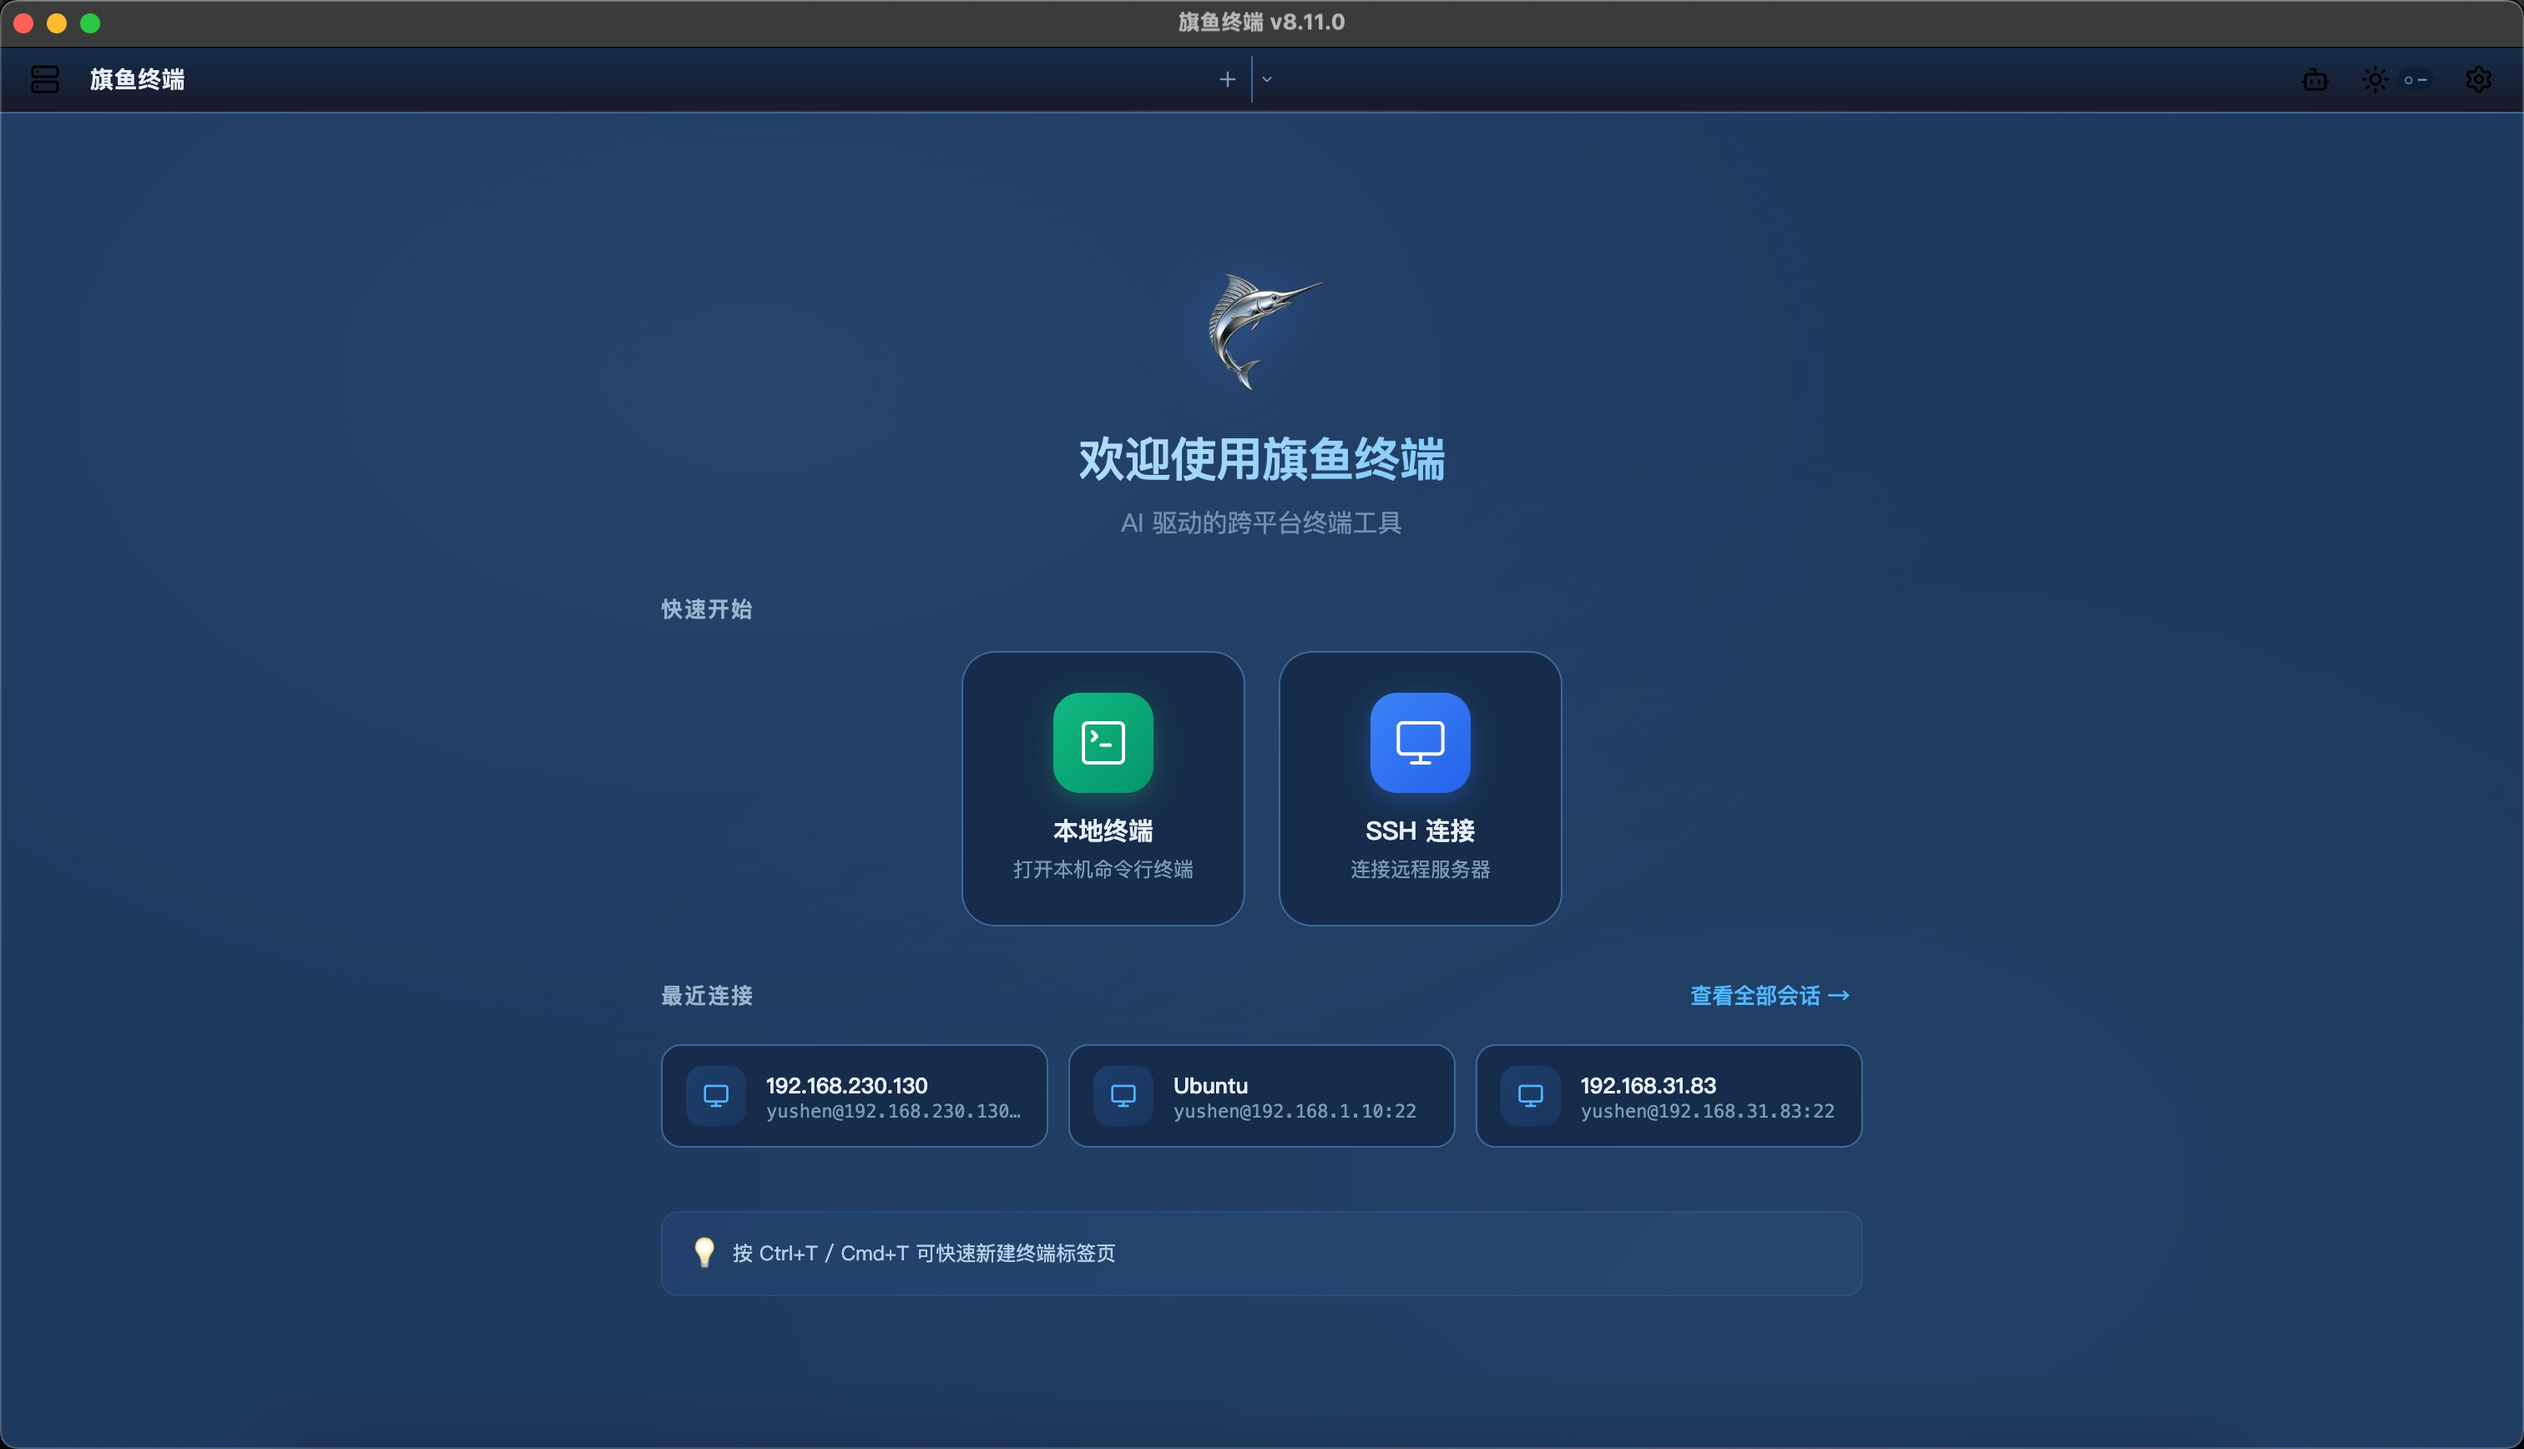
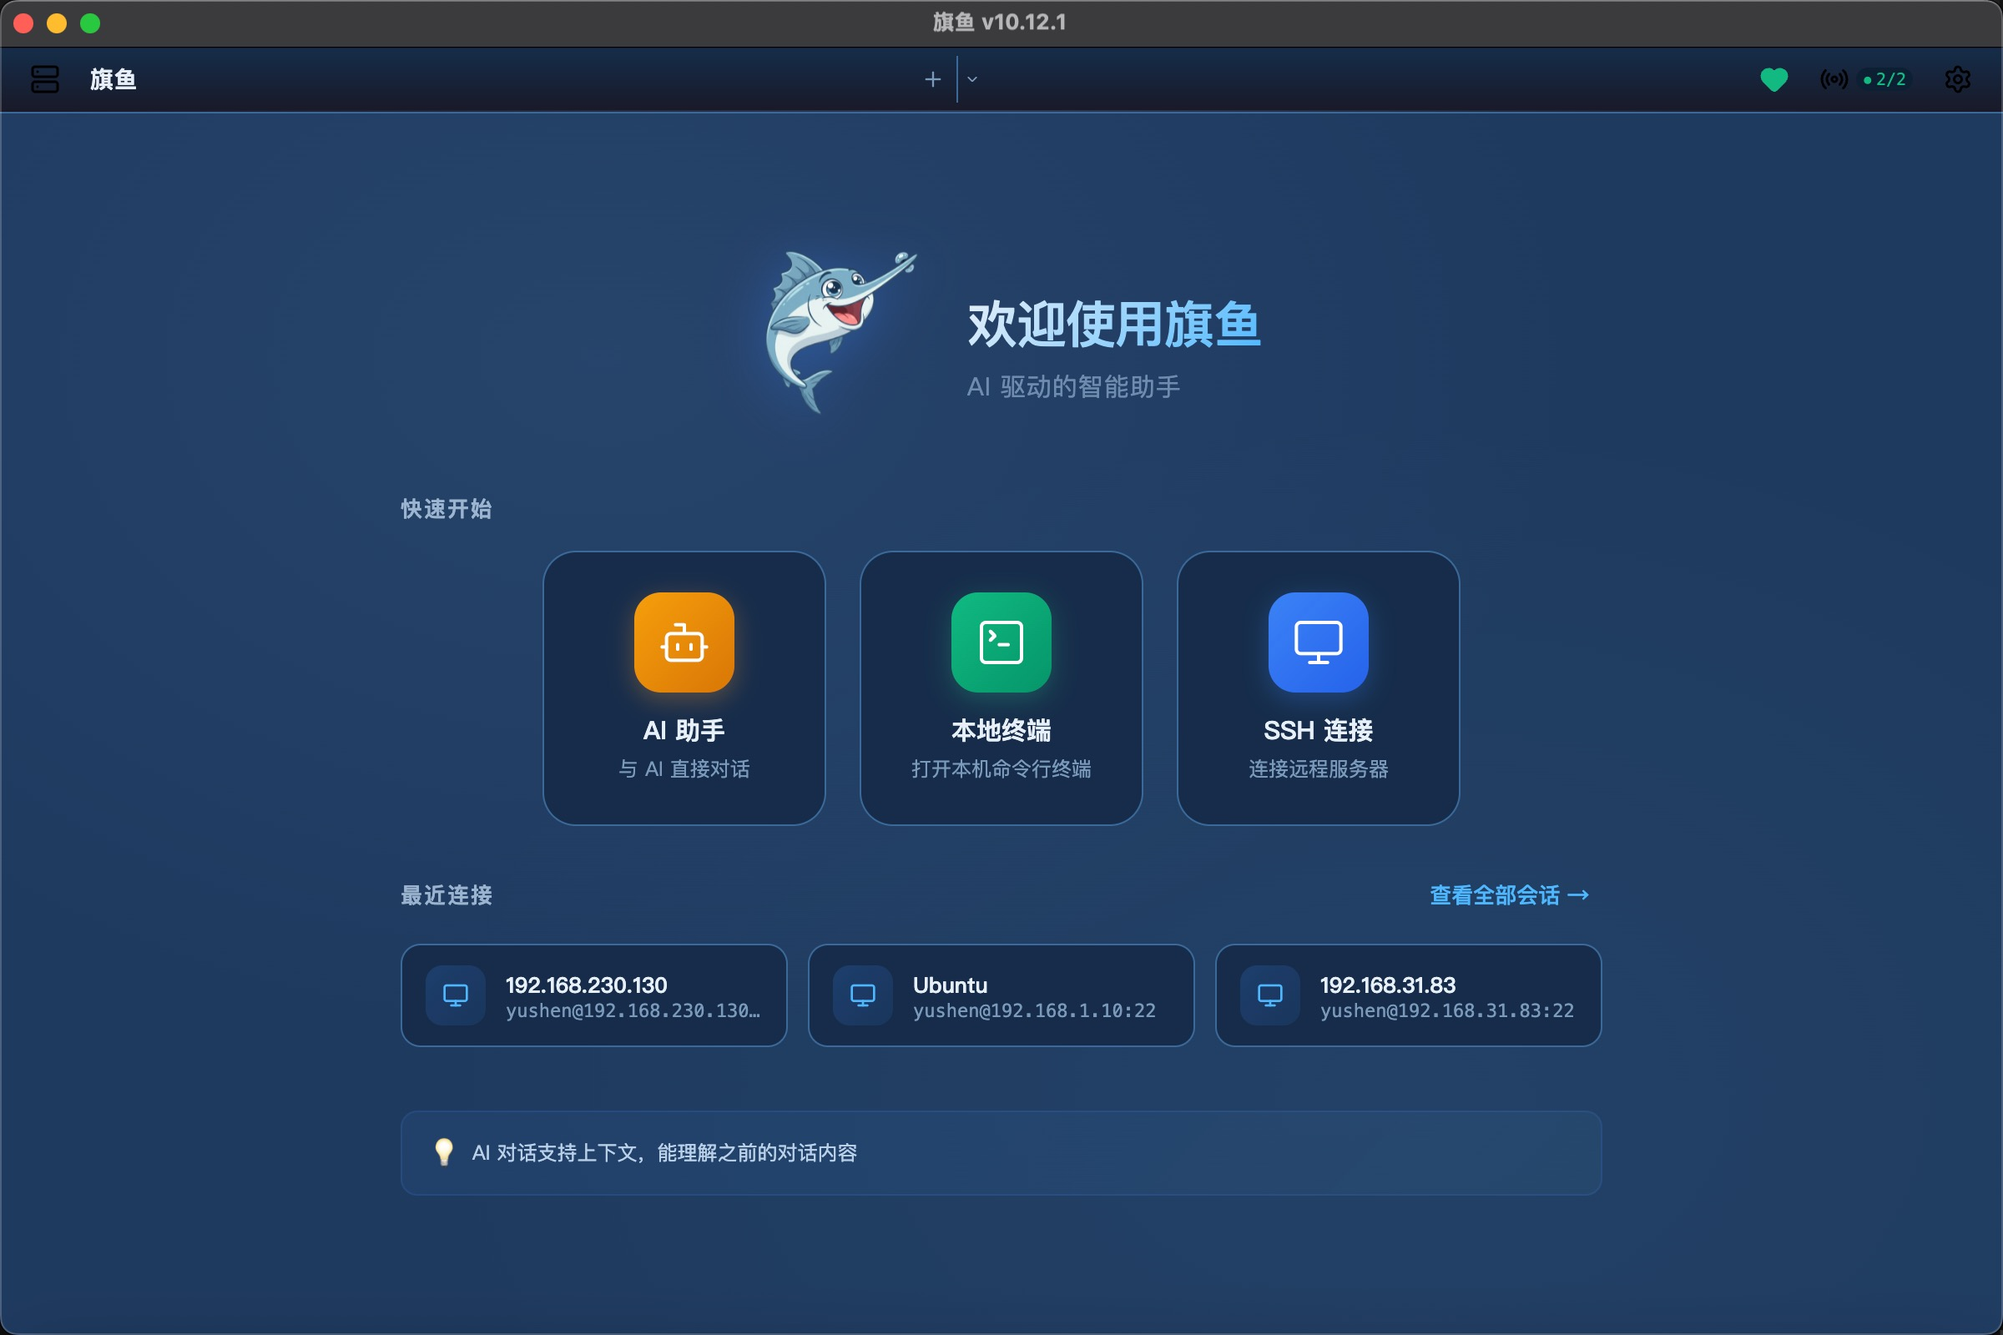
docs: 更新界面截图，新增 AI 助手/技能市场/远程 Agent 展示
- 更新首页欢迎截图（中英文）
- README 新增 AI 助手、技能市场、远程 Agent 三张截图
- 网站轮播新增 AI 助手、技能市场、远程 Agent 三个 slide
- 修复轮播图片 object-fit: cover 导致两侧截断的问题

diff --git a/README.md b/README.md
@@ -62,7 +62,15 @@
 | 🖥 **CLI Mode** | Run all backend services without Electron — headless automation via `npm run sft` |
 
 <p align="center">
-  <img src="https://raw.githubusercontent.com/ysyx2008/SailFish/main/website/public/screenshot-agent-exec_en.png" width="800" alt="AI Agent">
+  <img src="https://raw.githubusercontent.com/ysyx2008/SailFish/main/website/public/screenshot-assistant_en.png" width="800" alt="AI Assistant">
+</p>
+
+<p align="center">
+  <img src="https://raw.githubusercontent.com/ysyx2008/SailFish/main/website/public/screenshot-skills_en.png" width="800" alt="Skill Market">
+</p>
+
+<p align="center">
+  <img src="https://raw.githubusercontent.com/ysyx2008/SailFish/main/website/public/screenshot-im_en.png" width="800" alt="Remote Agent via IM">
 </p>
 
 ## 🚀 Quick Start

diff --git a/README_CN.md b/README_CN.md
@@ -62,7 +62,15 @@
 | 🖥 **CLI 模式** | 无需 Electron 运行全部后端服务 —— 通过 `npm run sft` 实现无头自动化 |
 
 <p align="center">
-  <img src="https://raw.githubusercontent.com/ysyx2008/SailFish/main/website/public/screenshot-agent-exec.png" width="800" alt="AI Agent">
+  <img src="https://raw.githubusercontent.com/ysyx2008/SailFish/main/website/public/screenshot-assistant.png" width="800" alt="AI 助手">
+</p>
+
+<p align="center">
+  <img src="https://raw.githubusercontent.com/ysyx2008/SailFish/main/website/public/screenshot-skills.png" width="800" alt="技能市场">
+</p>
+
+<p align="center">
+  <img src="https://raw.githubusercontent.com/ysyx2008/SailFish/main/website/public/screenshot-im.png" width="800" alt="远程 Agent">
 </p>
 
 ## 🚀 快速开始
